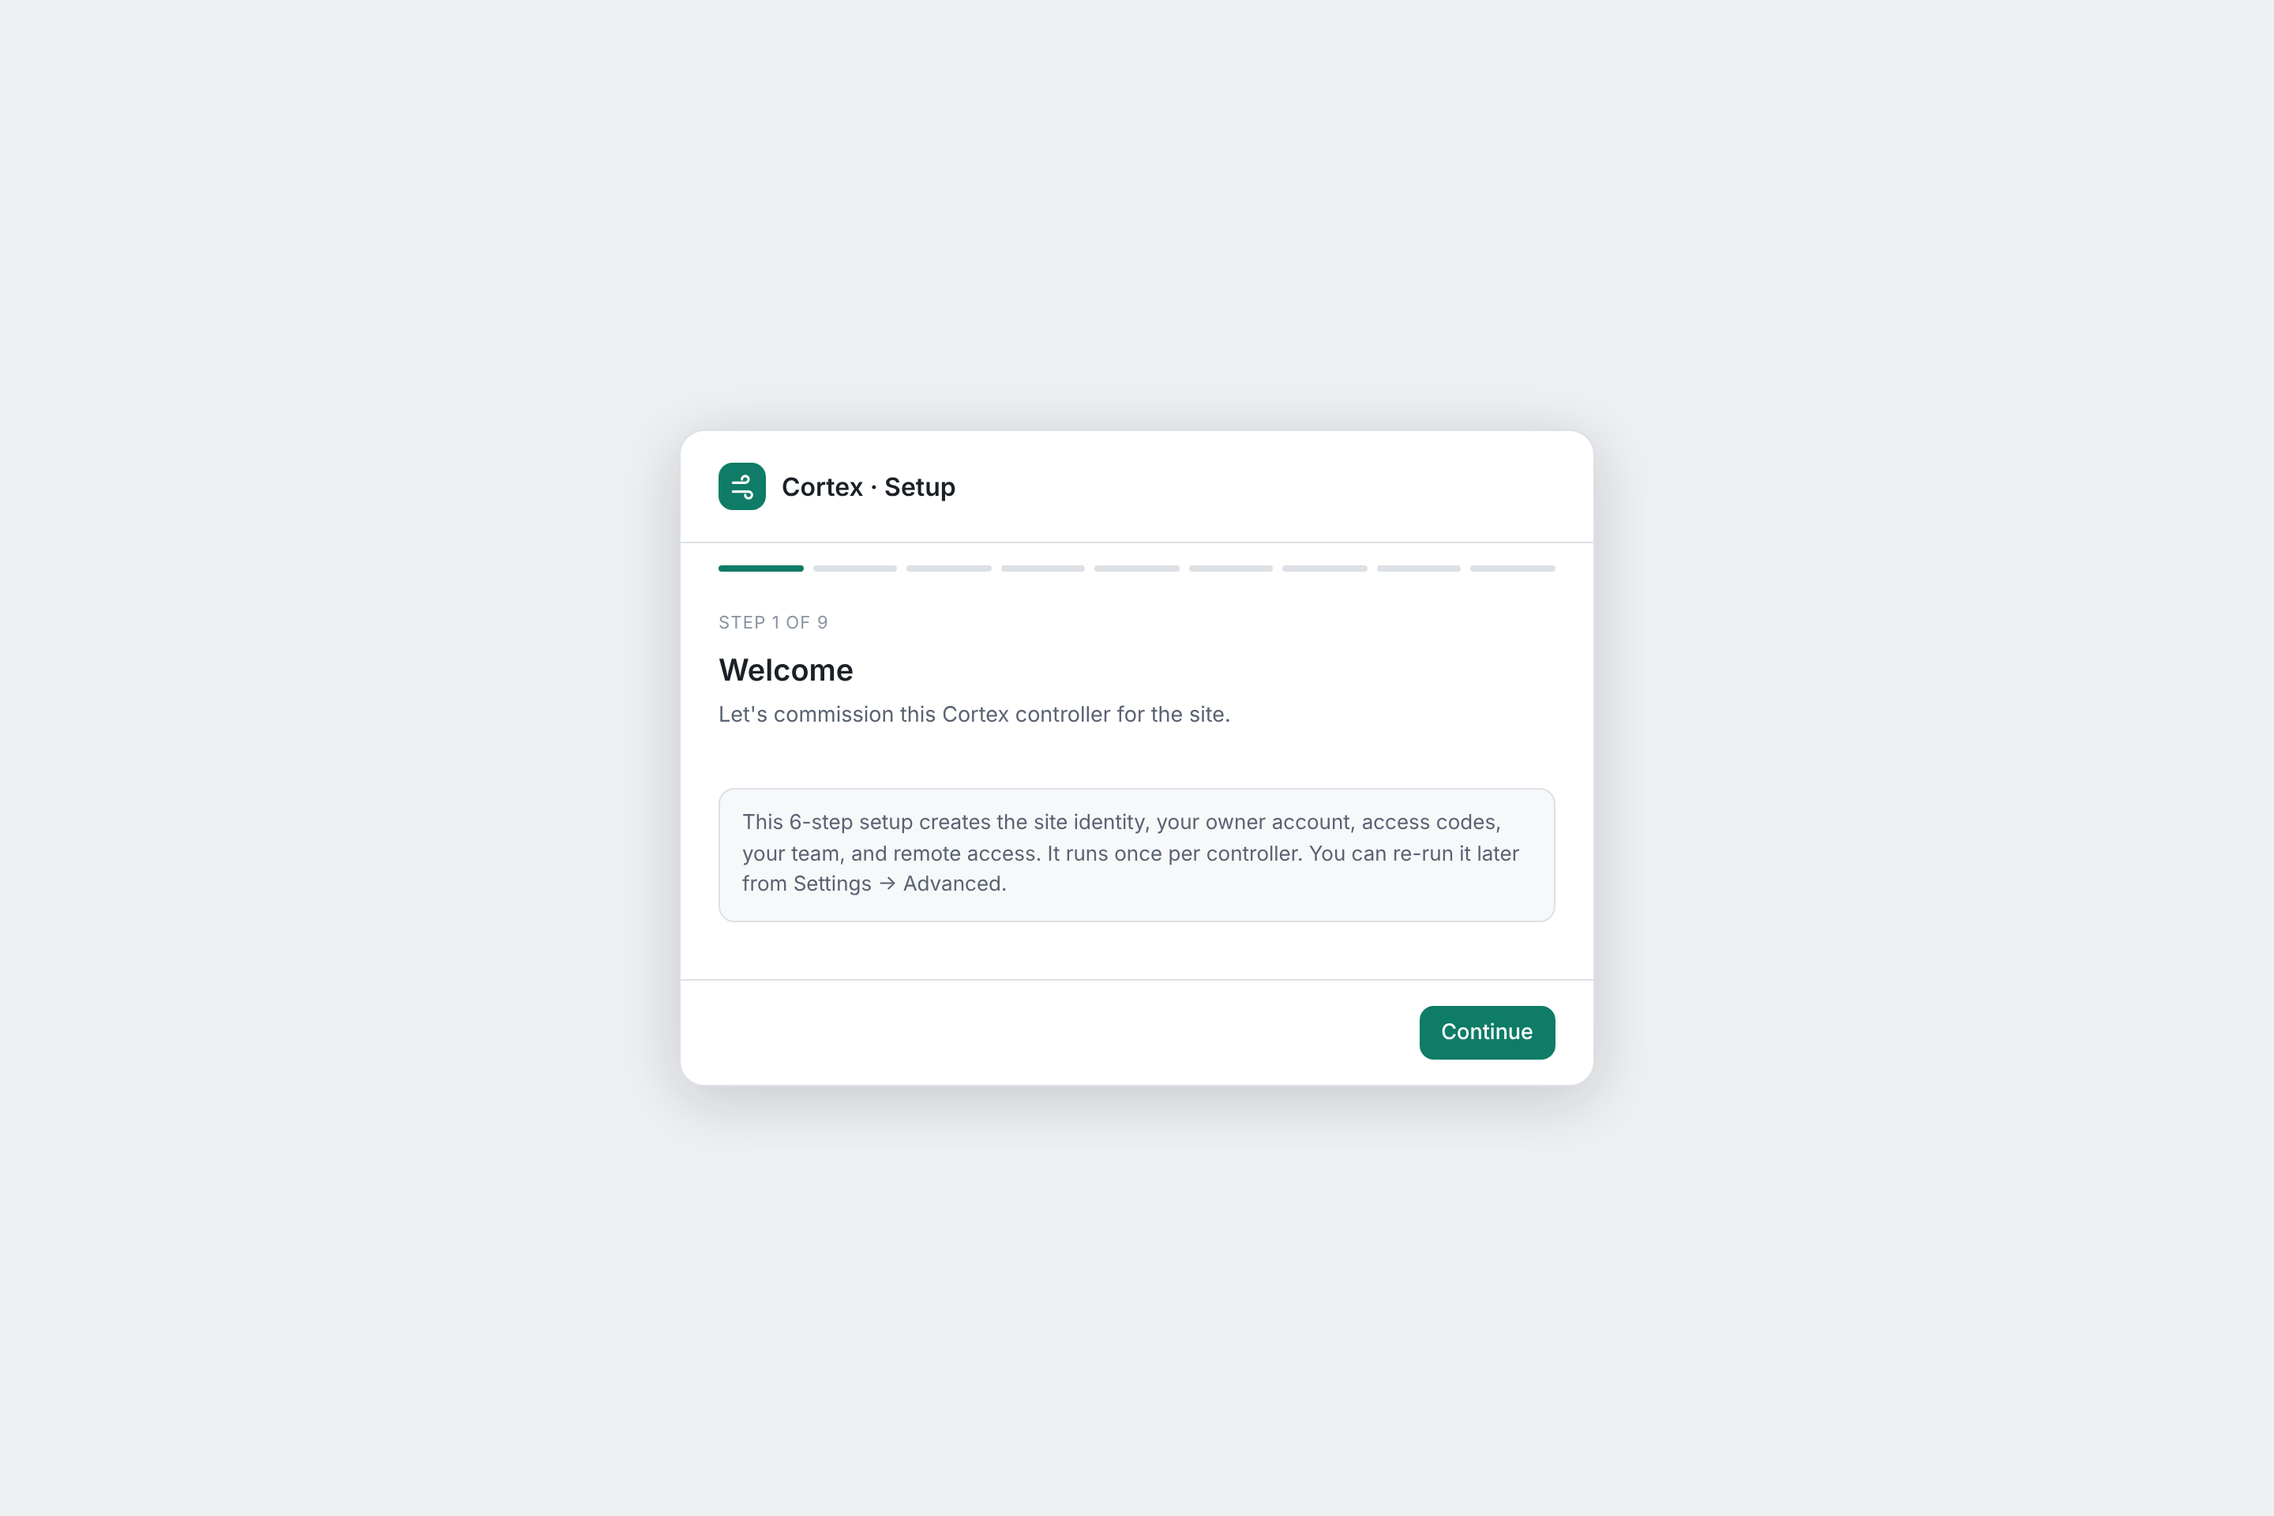
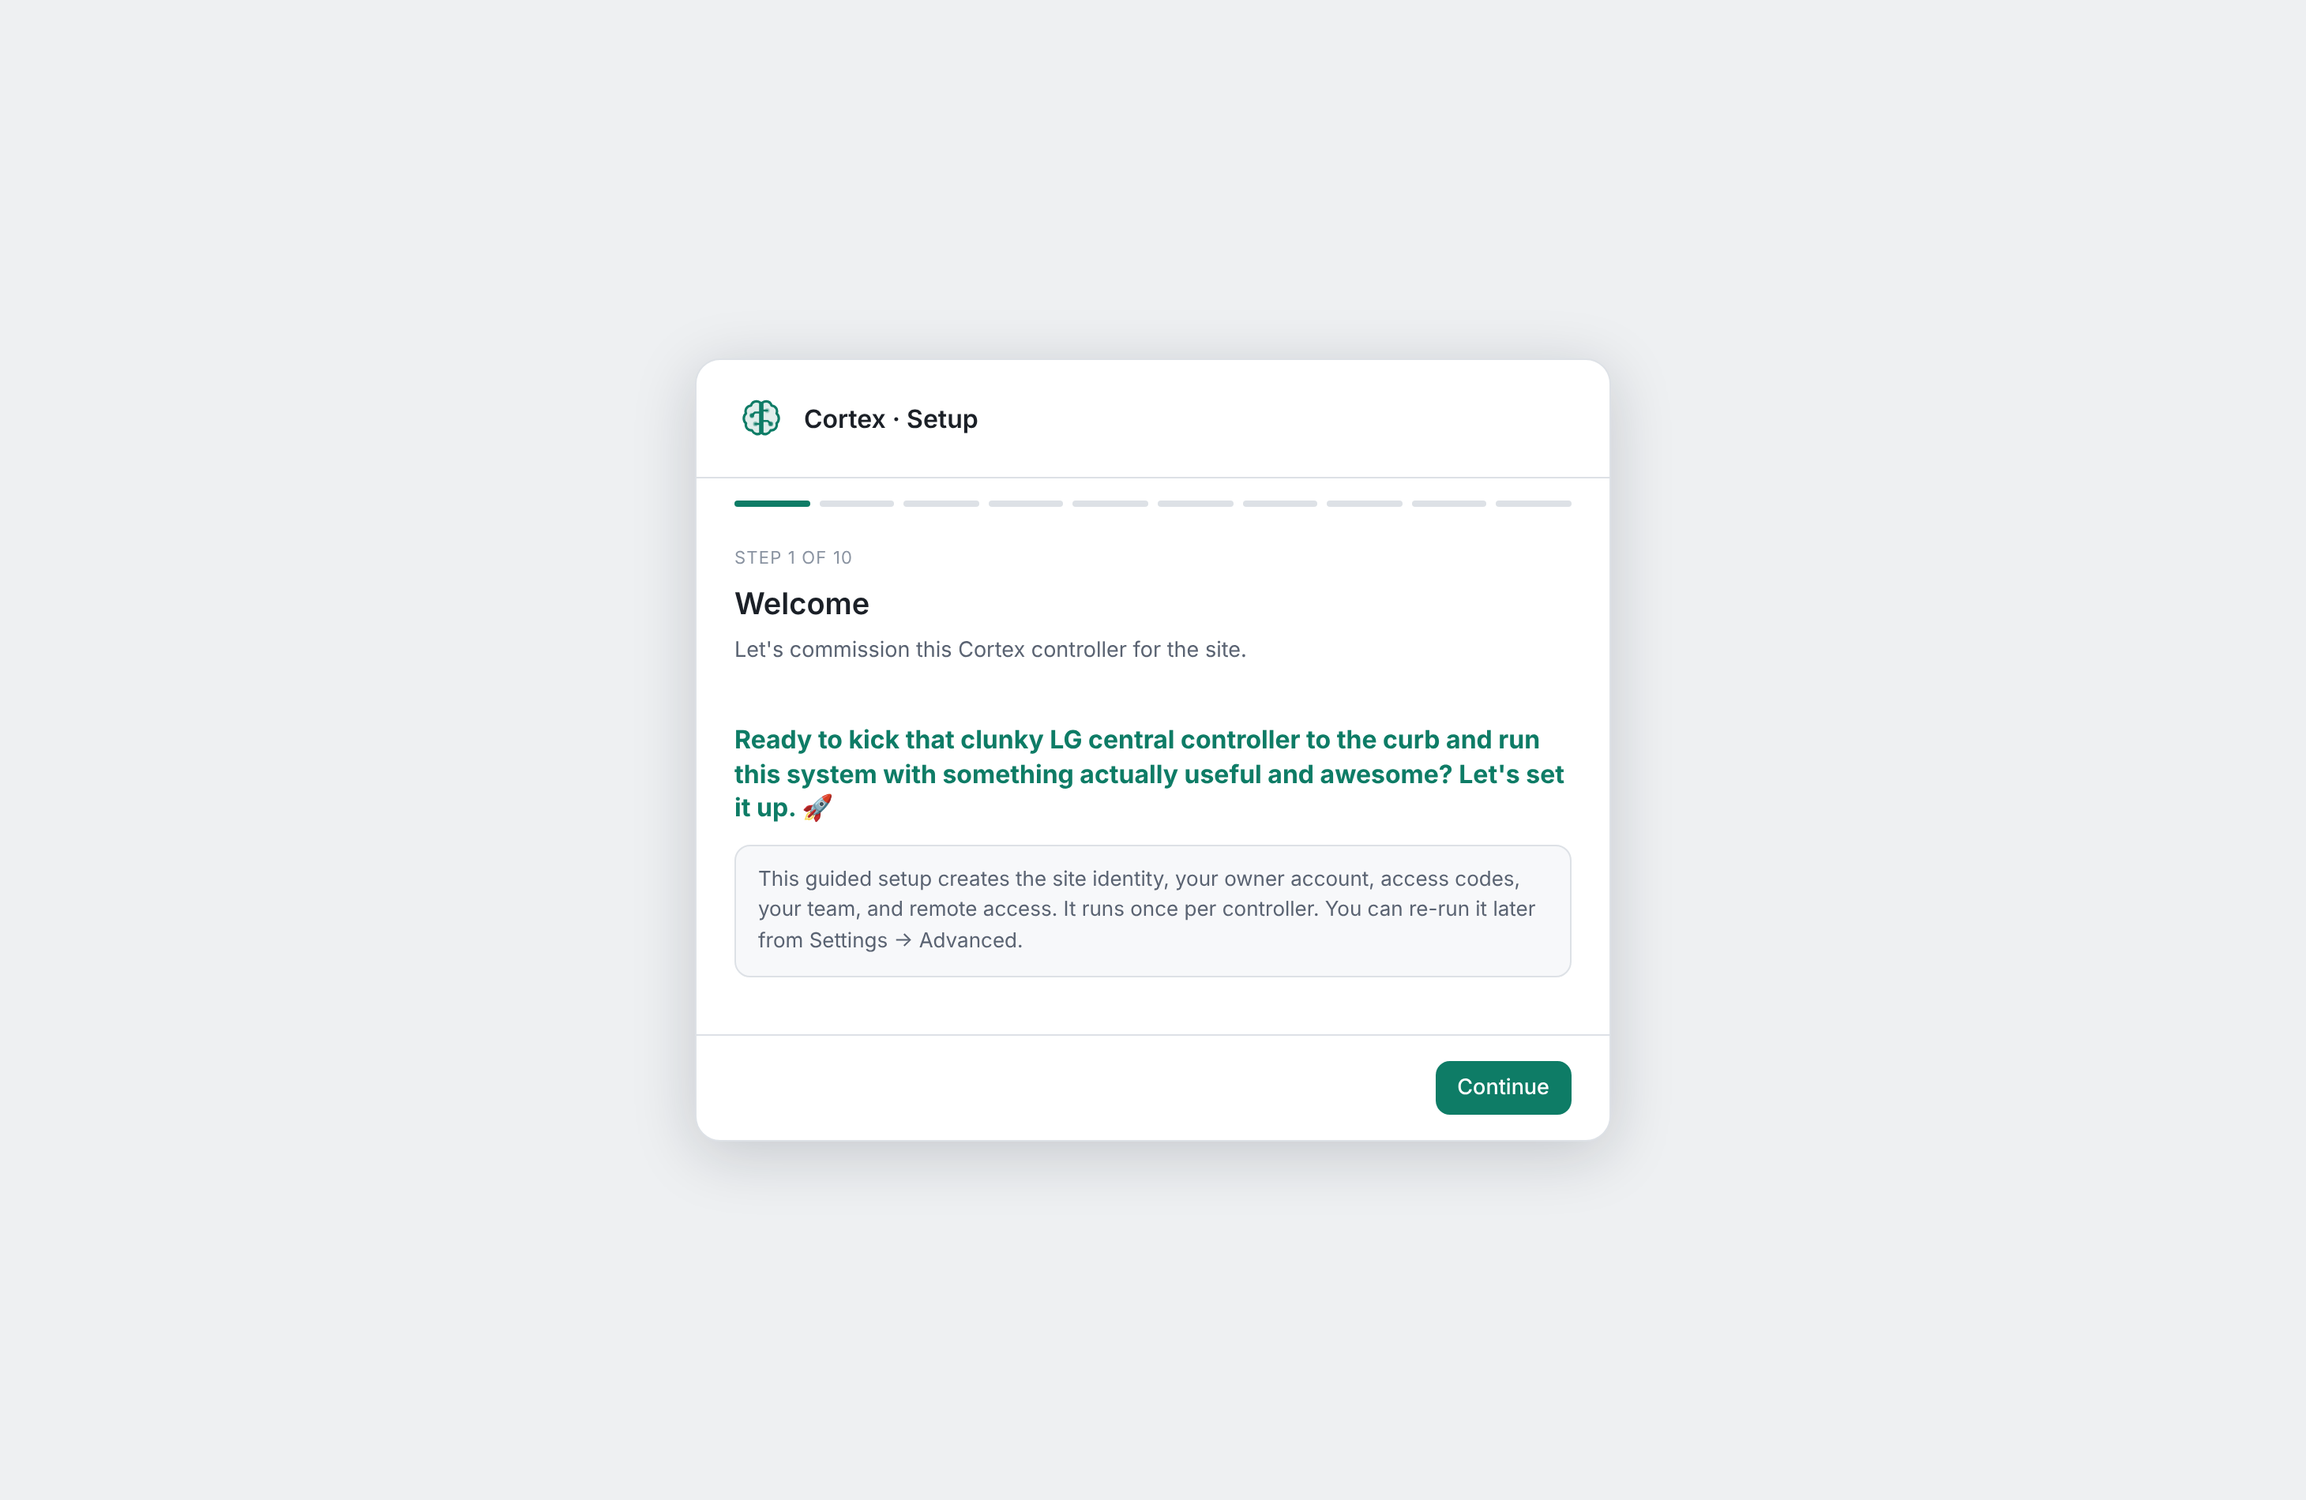
Release v1.6.0 (first stable): central controller, UART gated to pre-release
- First stable release of the LG ACP/AC Smart replacement: discovery, cmd0 control,
  dual setpoints, and the full lock set (Mode/Fan/Temp/Hard + settable Temp range),
  all field-validated on Multi V IV.
- Experimental UART service-port tool gated out of stable: the UART nav page shows only
  in pre-release builds (IS_BETA from the running version), and release.yml/release.sh
  ship uart-sniffer.html only for suffixed (pre-release) tags.
- Fix OTA version comparator so pre-releases order correctly (beta.10 > beta.9) in both
  server.js and cortex-update.sh; add tests/version.test.js.
- Update page shows release notes from the GitHub release body.
- Setup wizard welcome gets a hype line; wizard step-count wording fixed.
- README refreshed for stable with new current screenshots; LGAP_reference + CHANGELOG updated.

Claude-Session: https://claude.ai/code/session_014puXJahUGf67REpcZehK7Q

Changed region(s): [[0.3125, 0.3726, 0.6875, 0.6521], [0.2812, 0.2484, 0.7188, 0.3416], [0.2812, 0.6521, 0.7188, 0.7453]]

diff --git a/cortex.html b/cortex.html
@@ -878,8 +878,8 @@ function renderWho(){
   document.getElementById("lockbtn").classList.toggle("hide",!over);
   document.getElementById("lockbtn").classList.toggle("lit",over);
   document.getElementById("nav-cycle").classList.toggle("hide",!session.tech);
-  document.getElementById("nav-uart").classList.toggle("hide",!session.tech);
-  if(!session.tech&&view==="uart")view="units";
+  document.getElementById("nav-uart").classList.toggle("hide",!(session.tech&&IS_BETA));   // UART is experimental — pre-release builds only
+  if((!session.tech||!IS_BETA)&&view==="uart")view="units";
   document.getElementById("nav-busscan").classList.toggle("hide",!session.tech);
   if(!session.tech&&view==="busscan")view="units";
   const db=document.getElementById("devbtn");if(db){db.classList.toggle("hide",!isStaff());db.classList.toggle("lit",view==="device");}
@@ -3361,10 +3361,14 @@ async function cfgPull(){
 setInterval(()=>{if(BOOTED&&document.visibilityState!=="hidden")cfgPull();},20000);
 /* After an update the controller restarts with a new version; an open screen notices and reloads itself
    (once nobody is in the middle of something), so nobody keeps working on last week's page. */
+// UART is an experimental, pre-release-only feature. A pre-release build carries a version suffix
+// (1.7.0-beta.1); a stable build (1.6.0) has none. file:// = local dev, always shows it.
+let IS_BETA=(location.protocol==="file:");
 let LOADED_VER=null;
 async function versionWatch(){
   if(location.protocol==="file:")return;
   try{const r=await fetch('/version',{cache:'no-store'});if(!r.ok)return;const j=await r.json();if(!j||!j.version)return;
+    const beta=/-/.test(j.version); if(beta!==IS_BETA){IS_BETA=beta;if(currentUser)renderWho();}
     if(LOADED_VER===null){LOADED_VER=j.version;return;}
     if(j.version===LOADED_VER)return;
     const busy=!!mroot.innerHTML||openId!=null||MASTER.discovering||fpDrag||mapEdit||(WZ&&document.getElementById("screen-setup").classList.contains("show"));
@@ -3522,7 +3526,8 @@ function startWizard(){WZ={site:{name:(CFG&&CFG.site&&CFG.site.name)||"",locatio
 function v(id){const el=document.getElementById(id);return el?el.value:"";}
 const WSTEPS=[
  {title:"Welcome",sub:"Let's commission this Cortex controller for the site.",
-  body:()=>`<div class="note-box">This 6-step setup creates the site identity, your owner account, access codes, your team, and remote access. It runs once per controller. You can re-run it later from Settings → Advanced.</div>`,
+  body:()=>`<div style="font-size:16px;font-weight:650;color:var(--accent);line-height:1.35;margin-bottom:12px">Ready to kick that clunky LG central controller to the curb and run this system with something actually useful and awesome? Let's set it up. 🚀</div>
+   <div class="note-box">This guided setup creates the site identity, your owner account, access codes, your team, and remote access. It runs once per controller. You can re-run it later from Settings → Advanced.</div>`,
   save:()=>null},
  {title:"Site",sub:"What are we controlling?",
   body:()=>`<label class="flabel">Site name</label><input id="wz-name" class="inp" value="${ue(WZ.site.name)}" placeholder="e.g. Main Office Park">

diff --git a/appliance/server.js b/appliance/server.js
@@ -240,9 +240,18 @@ function readUpdateConf() {
 // Full semver-ish compare incl. pre-release suffix. Returns + if a>b, - if a<b, 0 if equal.
 // A version with NO suffix (stable) outranks the same x.y.z WITH a suffix (1.4.4 > 1.4.4-beta.1).
 function verParts(v){ const m=String(v).trim().match(/^v?(\d+)\.(\d+)\.(\d+)(?:-(.+))?$/); return m?[+m[1],+m[2],+m[3],m[4]||'~']:[0,0,0,'~']; }
+// Compare the pre-release suffix dot-part by dot-part, numeric parts numerically so beta.10 > beta.9
+// (a plain string compare put beta.9 above beta.10). '~' is the no-suffix sentinel: stable outranks any pre-release.
+function cmpSuffix(a,b){ if(a===b) return 0; if(a==='~') return 1; if(b==='~') return -1;
+  const pa=a.split('.'), pb=b.split('.');
+  for(let i=0;i<Math.max(pa.length,pb.length);i++){ const x=pa[i], y=pb[i];
+    if(x===undefined) return -1; if(y===undefined) return 1;      // shorter pre-release precedes (semver)
+    const nx=/^\d+$/.test(x), ny=/^\d+$/.test(y);
+    if(nx&&ny){ if(+x!==+y) return +x<+y?-1:1; } else if(x!==y) return x<y?-1:1; }
+  return 0; }
 function cmpVer(a,b){ const x=verParts(a),y=verParts(b);
   for(let i=0;i<3;i++){ if(x[i]!==y[i]) return x[i]-y[i]; }
-  if(x[3]===y[3]) return 0; if(x[3]==='~') return 1; if(y[3]==='~') return -1; return x[3]<y[3]?-1:1; }
+  return cmpSuffix(x[3],y[3]); }
 function isNewer(cur, next){ return cmpVer(next, cur) > 0; }
 
 // --- update channel: 'stable' (default) or 'beta' (also accepts pre-releases) --

diff --git a/tests/version.test.js b/tests/version.test.js
@@ -1,0 +1,15 @@
+// Regression test for the OTA version comparator (the suffix bug that ranked beta.9 above beta.10).
+// Mirrors cmpVer/cmpSuffix in appliance/server.js.   node tests/version.test.js
+const verParts=v=>{const m=String(v).trim().match(/^v?(\d+)\.(\d+)\.(\d+)(?:-(.+))?$/);return m?[+m[1],+m[2],+m[3],m[4]||'~']:[0,0,0,'~'];};
+function cmpSuffix(a,b){ if(a===b)return 0; if(a==='~')return 1; if(b==='~')return -1;
+  const pa=a.split('.'),pb=b.split('.');
+  for(let i=0;i<Math.max(pa.length,pb.length);i++){ const x=pa[i],y=pb[i];
+    if(x===undefined)return -1; if(y===undefined)return 1;
+    const nx=/^\d+$/.test(x),ny=/^\d+$/.test(y);
+    if(nx&&ny){ if(+x!==+y)return +x<+y?-1:1; } else if(x!==y)return x<y?-1:1; } return 0; }
+function cmpVer(a,b){ const x=verParts(a),y=verParts(b); for(let i=0;i<3;i++){ if(x[i]!==y[i])return x[i]-y[i]; } return cmpSuffix(x[3],y[3]); }
+const C=[['1.6.0-beta.10','1.6.0-beta.9',1],['1.6.0-beta.9','1.6.0-beta.10',-1],['1.6.1-beta.1','1.6.0-beta.9',1],
+  ['1.6.1-beta.1','1.6.0-beta.10',1],['1.6.0','1.6.0-beta.1',1],['1.6.0-beta.2','1.6.0-beta.10',-1],
+  ['1.6.0-beta.9','1.6.0-beta.9',0],['1.7.0','1.6.9',1],['1.6.0-rc.1','1.6.0-beta.9',1]];
+let fail=0; for(const [a,b,w] of C){ const g=Math.sign(cmpVer(a,b)); if(g===w)console.log('ok   '+a+' vs '+b+' = '+g); else {fail++;console.log('FAIL '+a+' vs '+b+' = '+g+' want '+w);} }
+console.log(fail?`\n${fail} FAILED`:'\nall passed'); process.exit(fail?1:0);

diff --git a/README.md b/README.md
@@ -5,12 +5,14 @@ directly over the RS485 bus, so a small mini-PC on-site runs the whole indoor-un
 power, mode, fan, dual setpoints, locks — from a clean web UI you reach on the LAN or
 remotely over Tailscale. No cloud, no per-controller license, no vendor lock-in.
 
-> **Status:** working appliance + UI. The LGAP **master/controller** mode has been
-> **field-validated on a live Multi V IV system** — Cortex discovered 14 indoor units, decoded
-> their state, and controls them directly. Still verifying a couple of details (the ODU/system
-> grouping byte and error-code propagation). Reverse-engineering notes are in
-> **[LGAP_reference.md](LGAP_reference.md)**; see **[CHANGELOG.md](CHANGELOG.md)** for release
-> history. Contributions welcome.
+> **Status: v1.6.0 — first stable release.** Cortex runs a live LG Multi V IV fleet as a drop-in
+> central controller: it discovers indoor units, decodes their state, and controls power, mode,
+> fan, dual cool/heat setpoints and every remote-controller lock — including a settable
+> temperature-**range** lock — directly over LGAP, all field-validated on real equipment.
+> Experimental outdoor-unit service-port (UART / LGMV) diagnostics are developed separately on
+> the `1.7.0-beta` track and are **not** part of the stable build. Protocol notes:
+> **[LGAP_reference.md](LGAP_reference.md)** · release history: **[CHANGELOG.md](CHANGELOG.md)**.
+> Contributions welcome.
 
 ---
 
@@ -22,29 +24,32 @@ everyone gets a login screen.
 ![Setup wizard](docs/img/01-setup-wizard.png)
 
 **Dashboard** — every indoor unit at a glance: what it's set to, the room temperature, mode,
-locks and faults, in your own groups. This is the screen a customer uses day to day, so it shows
-names — never bus addresses. (Screenshots below predate the v1.5.0 tile and logo refresh.)
+locks and faults, grouped your way, with live site weather and fleet status up top. This is the
+screen a customer uses day to day, so it shows names — never bus addresses.
 
 ![Dashboard](docs/img/02-dashboard.png)
 
-**Unit control** — tap a unit for power, mode, fan, dual cool/heat setpoints, and per-function
-locks.
+**Unit control** — tap a unit for power, mode, fan, dual cool/heat setpoints, and the full lock
+set: Mode / Fan / Temp / Hard, plus a **Temp range** lock with a settable min–max the wall
+thermostat must stay inside.
 
 ![Unit control](docs/img/03-unit-control.png)
 
-**Bus scan (live)** — a readable, real-time view of what's happening on the RS485 bus.
+**Bus scan + Master mode** — a readable, real-time view of the RS485 bus, and the Master / CC
+workshop where Cortex drives the bus like the LG controller: discover units, poll replies, send
+commands, with raw TX/RX logging.
 
-![Bus scan live](docs/img/04-bus-live.png)
+![Bus scan and master mode](docs/img/04-bus-scan.png)
 
-**Master / CC mode + debug tools** — the byte-level workshop: Cortex drives the bus like the
-LG controller (discover units, poll replies, send commands), with raw TX/RX logging.
+**Schedules** — automate on/off, mode, fan and setpoint by time and day, with nth-weekday
+recurrence and weather conditions (e.g. *outdoor below 30° → heat*).
 
-![Master mode](docs/img/05-master-mode.png)
+![Schedules](docs/img/05-schedule.png)
 
-**Settings / About** — remote access, power controls, and the full LGAP protocol reference
-built right into the app.
+**Settings / About** — remote access, update channel, power controls, and the full LGAP
+protocol reference built right into the app.
 
-![Settings and About](docs/img/06-settings-about.png)
+![Settings and About](docs/img/06-settings.png)
 
 ---
 

diff --git a/CHANGELOG.md b/CHANGELOG.md
@@ -2,6 +2,27 @@
 
 All notable changes to Cortex. Dates are when the work landed on `main`.
 
+## v1.6.0 — 2026-11-15 (first stable release)
+
+**Cortex is a working, field-validated drop-in replacement for LG's ACP / AC Smart central
+controllers.** On a live Multi V IV system it discovers indoor units, decodes their state, and
+controls power, mode, fan, dual cool/heat setpoints and every remote-controller lock directly
+over LGAP — no ACP, no per-controller license, no cloud.
+
+Highlights since the 1.5.x line:
+- **Remote-controller locks, confirmed on site:** Mode / Fan / Temp and the hard (whole-wall)
+  lock, plus a separate **Temp range** lock with a settable min–max bounded to the thermostat's
+  own 64–86 °F / 18–30 °C. Temp lock blocks all changes; the range only limits movement while
+  temp is unlocked. Entered in input boxes, explained in plain language in the unit panel.
+- **Passive reply decode, outdoor-unit CEN pages, and protocol fixes** from the beta line.
+- **Update page shows release notes**, and the OTA version comparator now orders pre-releases
+  correctly (beta.10 > beta.9).
+- **Brain logo as the browser tab / bookmark icon.**
+- **Setup wizard** opens with a bit more attitude.
+
+The experimental outdoor-unit service-port (UART / LGMV) tool is **not** in this stable build; it
+continues on the 1.7.0-beta track.
+
 ## v1.6.0-beta.10 — 2026-11-15 (bookmark/tab icon)
 
 _Beta — publish as a GitHub **pre-release**. Builds on v1.6.0-beta.9._

diff --git a/LGAP_reference.md b/LGAP_reference.md
@@ -5,6 +5,13 @@ controllers (ACP, AC Smart) use to talk to indoor VRF/VRV units. It exists so Co
 anyone else doing interoperability work on their own LG equipment — can speak the bus
 directly instead of being locked to LG's controllers.
 
+> **Milestone — v1.6.0 (stable), Nov 2026.** Everything the stable Cortex controller relies on in
+> here is confirmed on a live Multi V IV system: indoor-unit discovery, the cmd0 write + 16-byte
+> reply decode, dual cool/heat setpoints (cmd5), and the remote-controller locks — Mode/Fan/Temp
+> and the hard lock via cmd4/cmd0, plus a settable temperature **range** (cmd4 band, default the
+> thermostat's own 64–86 °F / 18–30 °C). The outdoor-unit service-port (UART / LGMV) work is
+> tracked separately in **docs/UART_SERVICE_PORT.md** and ships only in 1.7.0-beta builds.
+>
 > **Status / disclaimer.** This is not official LG documentation and is not affiliated with
 > or endorsed by LG. It was derived by analyzing a central controller's own control engine
 > and by capturing live traffic on a bus of LG equipment. Field offsets marked below as
